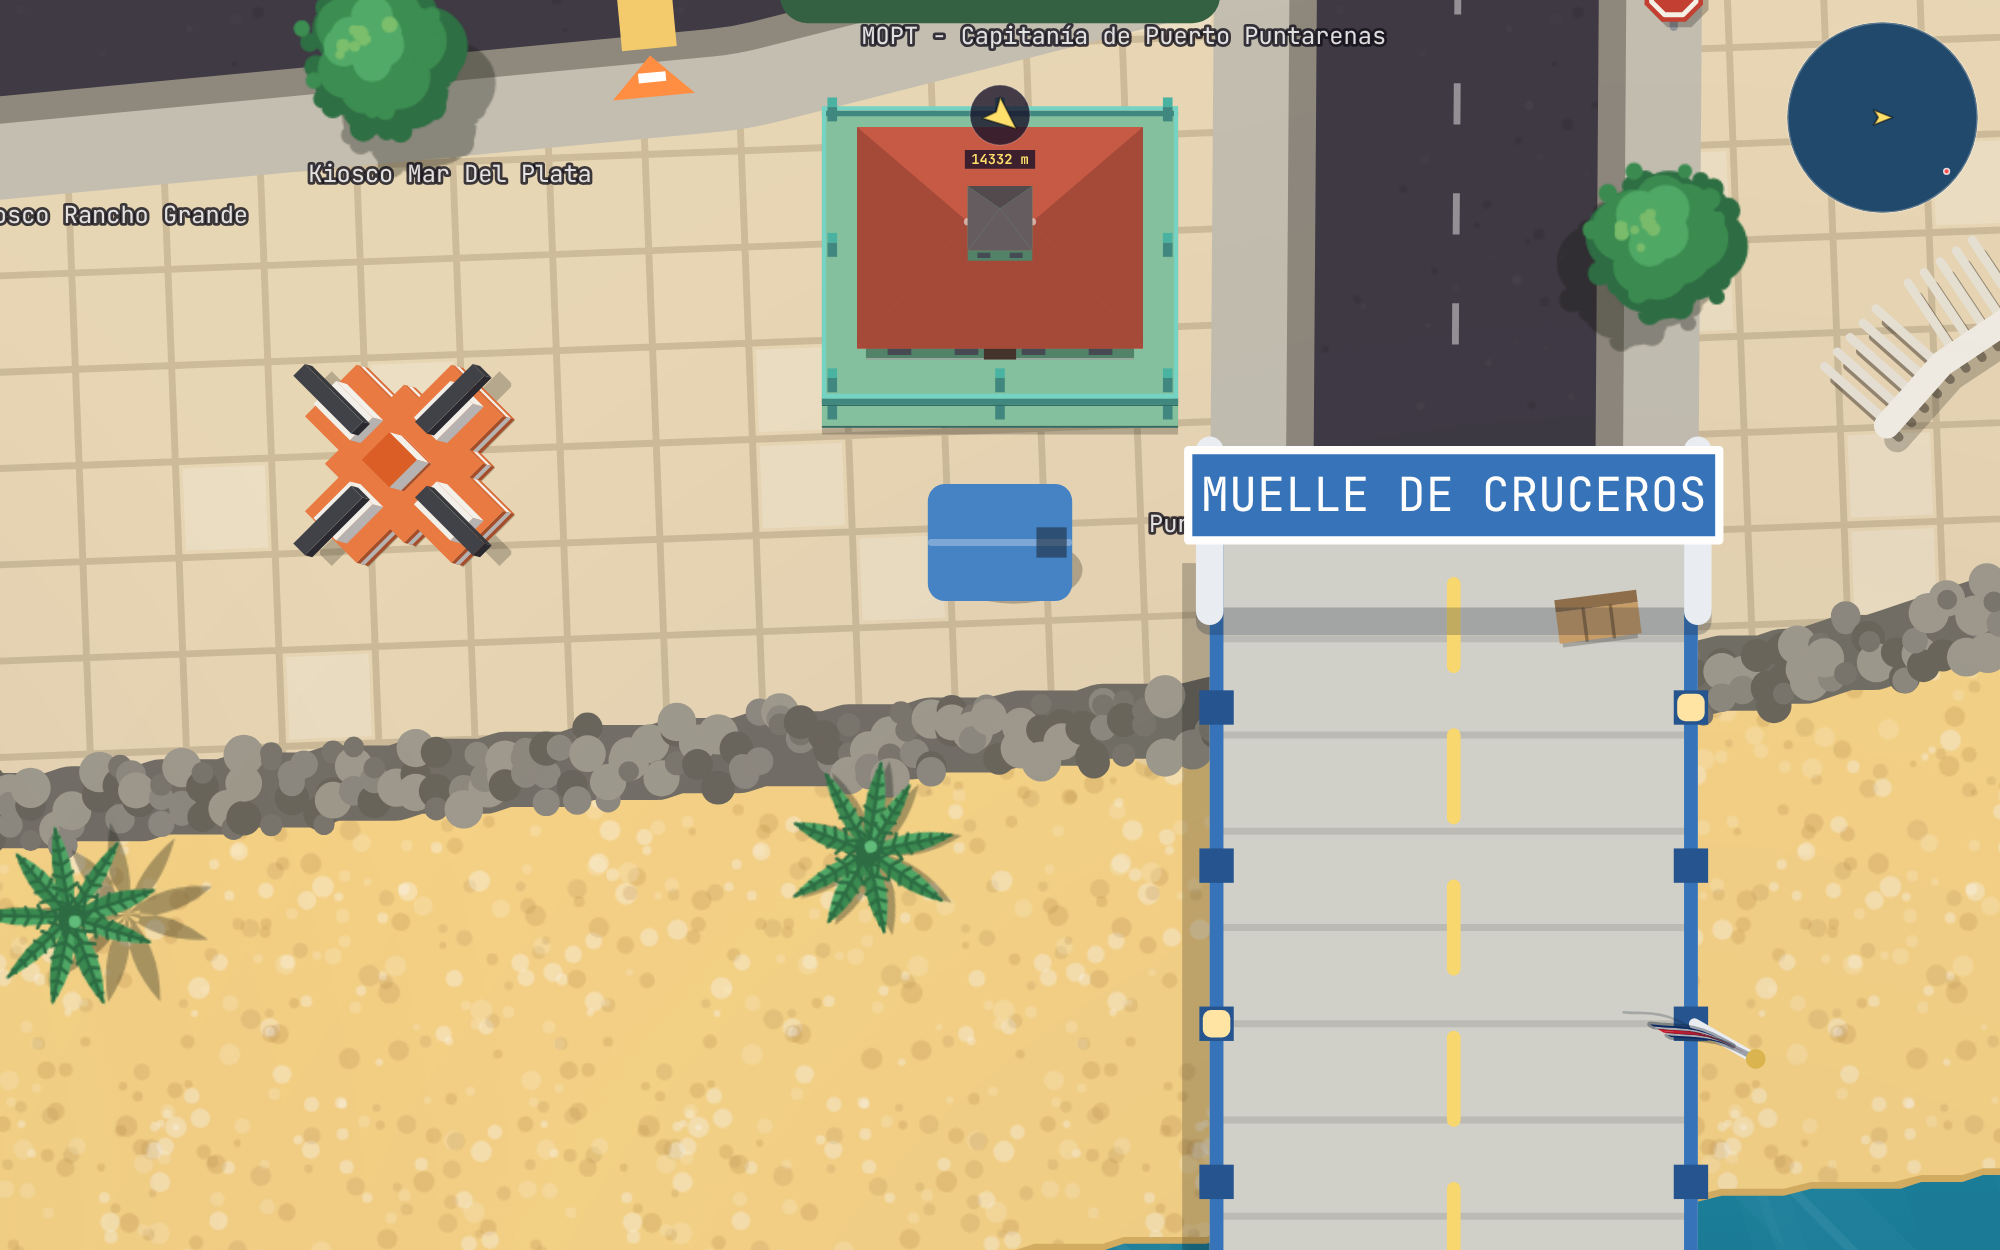
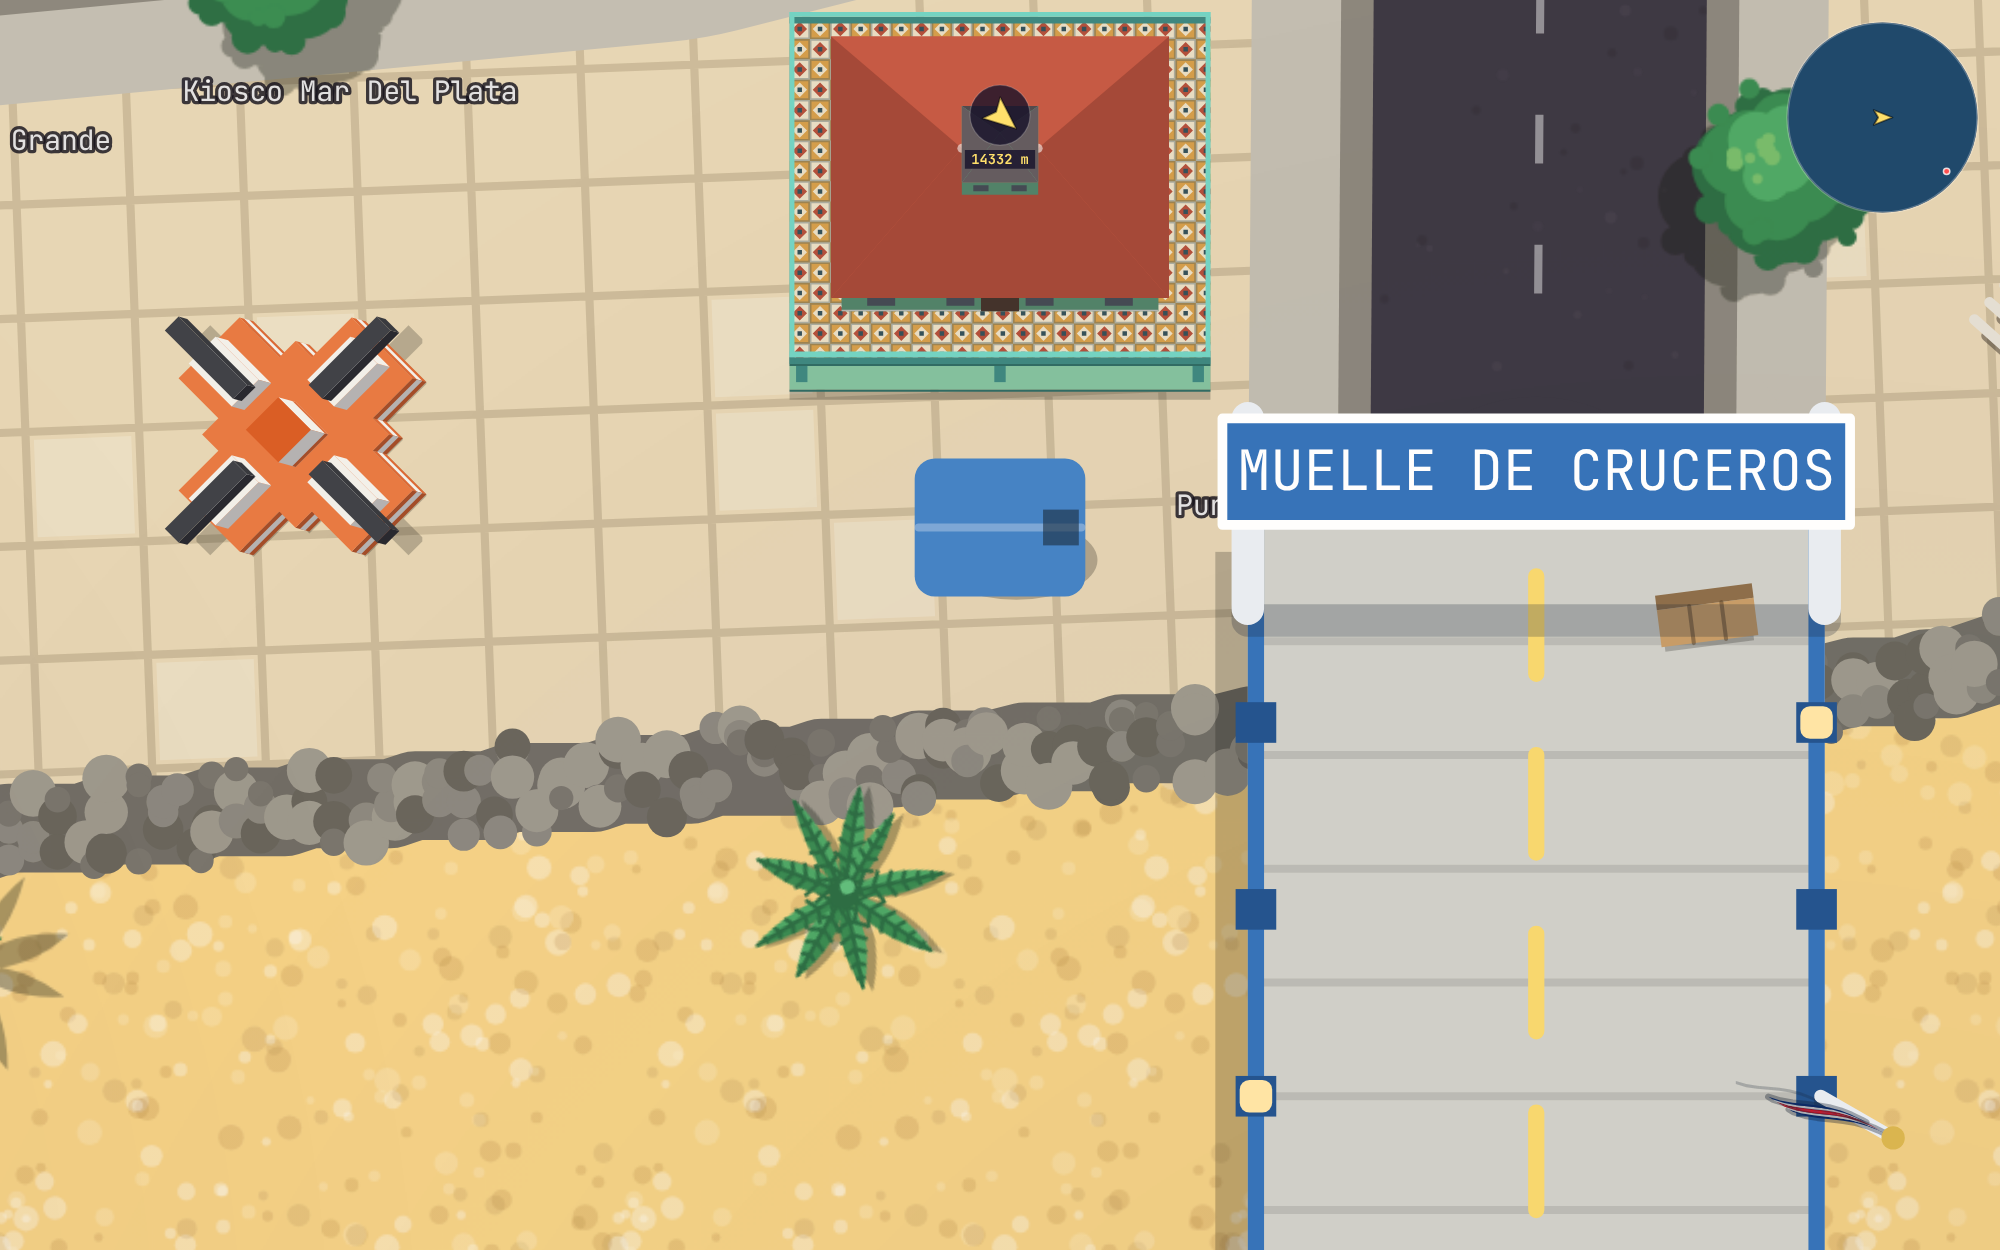
feat(render): las hojas de la Concha en 3D como en la foto; mosaico antiguo en el balcón de la Capitanía
- Las hojas son abanicos turquesa que nacen angostos sobre un pilar corto al
  borde del escenario y se abren hacia el mar y hacia arriba, cada una desde
  el centro (ya no se corren todas al mismo lado), más grandes, traslapadas y
  de tamaños distintos (las del centro mayores), con su ahuecado y sus nervios
  en abanico. Van en el aparejo con las gradas: su sombra es su silueta real.
- Capitanía: fuera las columnas sobre la baranda (el techo cubre sólo la casa
  y se leían como palos sueltos), y el piso del balcón es mosaico de cemento
  antiguo: un verbo nuevo de las tapas, `mosaic` (bodies.js → paintMosaic),
  con sus cuatro tintas en materials.json → centro.inks.

Claude-Session: https://claude.ai/code/session_018GSydgtbAbdgpJPFkJ2EAM

diff --git a/src/render/c2d/punta.js b/src/render/c2d/punta.js
@@ -294,32 +294,6 @@ function paintLettersRaised(mo, C, ppm) {
   ctx.restore();
 }
 
-// LAS HOJAS DE LA CONCHA, en el aire: cada pilar sube de su base a la hoja, y la hoja —turquesa,
-// translúcida— queda a `leafHeightM`, corrida con el pinhole como un techo.
-function paintShellLeaves(mo, C, K, R, leaves, ringR, L, Wd, leafPath, ppm) {
-  const lift = liftOf(mo, ppm), hi = lift(C.leafHeightM || 5), pil = R * 0.055;
-  ctx.save(); ctx.translate(mo.x, mo.y); ctx.rotate(mo.ang);
-  for (const a of leaves) {
-    const bx = Math.cos(a) * ringR, by = Math.sin(a) * ringR;
-    ctx.strokeStyle = C.pillarEdge; ctx.lineWidth = pil * 1.25; ctx.lineCap = "butt";
-    ctx.beginPath(); ctx.moveTo(bx, by); ctx.lineTo(bx + hi[0], by + hi[1]); ctx.stroke();
-    ctx.strokeStyle = C.pillar; ctx.lineWidth = pil;
-    ctx.beginPath(); ctx.moveTo(bx, by); ctx.lineTo(bx + hi[0], by + hi[1]); ctx.stroke();
-  }
-  for (const a of leaves) {
-    ctx.save(); ctx.translate(Math.cos(a) * ringR + hi[0], Math.sin(a) * ringR + hi[1]); ctx.rotate(a + Math.PI / 2);
-    const leaf = leafPath();
-    ctx.fillStyle = C.leaf; ctx.fill(leaf);
-    ctx.strokeStyle = C.leafEdge; ctx.lineWidth = Math.max(1, 0.15 * ppm); ctx.stroke(leaf);
-    ctx.strokeStyle = C.vein; ctx.lineWidth = Math.max(0.7, 0.08 * ppm); ctx.beginPath();
-    for (let v = 1; v <= 5; v++) { const y = L * (0.1 + v * 0.14), sp = Wd * (0.95 - v * 0.1); ctx.moveTo(0, y - L * 0.05); ctx.quadraticCurveTo(sp * 0.5, y, sp, y + L * 0.06); ctx.moveTo(0, y - L * 0.05); ctx.quadraticCurveTo(-sp * 0.5, y, -sp, y + L * 0.06); }
-    ctx.stroke();
-    ctx.strokeStyle = C.rib; ctx.lineWidth = Math.max(1, 0.22 * ppm); ctx.beginPath(); ctx.moveTo(0, 0); ctx.lineTo(0, L * 0.96); ctx.stroke();
-    ctx.restore();
-  }
-  ctx.restore();
-}
-
 // LAS GRADAS Y EL ESCENARIO DE LA CONCHA, en 3D sobre el aparejo (`rig3d.js`, metros, marco del
 // monumento: +v hacia el mar). Cada grada es un anillo un escalón más alto que el de adentro: su
 // CONTRAHUELLA (la pared que mira al escenario), su huella arriba y sus dos cantos en las puntas; atrás
@@ -357,6 +331,43 @@ function shellForm(Rg, Rm, C) {
     for (const f of [0.82, 0.66]) Rg.line(arc(sr * f, zs + 0.01, 0.08, Math.PI - 0.08, 0, cy), 0.28, C.stageStep);
     Rg.line([[-sr, cy, zs + 0.01], [sr, cy, zs + 0.01]], 0.28, C.stageStep);
   });
+  shellLeaves(Rg, Rm, C, cy);
+}
+
+// LAS HOJAS DE LA CONCHA, según la foto: abanicos turquesa translúcidos que nacen ANGOSTOS sobre un
+// pilar corto al borde del escenario y se abren hacia atrás y hacia arriba, hacia el mar, como la
+// concha acústica que son. Cada una apunta desde el centro (las bases no miran todas al mismo lado),
+// se traslapa con las vecinas, y no son iguales: las del centro, más grandes (`leafSizeK`). La
+// superficie se curva hacia arriba (`leafTopM`) y se ahueca de lado a lado (`leafCupM`); sus
+// nervios salen del pie como los de una concha. En 3D sobre el aparejo, sombra incluida.
+function shellLeaves(Rg, Rm, C, cy) {
+  const n = C.leaves, arc = C.leafArcDeg * RAD, [kSide, kMid] = C.leafSizeK;
+  const rb = Rm * C.leafFromK, zb = C.leafBaseM, H = C.leafTopM - zb, cup = C.leafCupM, tipK = 0.75;
+  const order = Array.from({ length: n }, (_, k) => k).sort((p, q) => Math.abs(p - (n - 1) / 2) < Math.abs(q - (n - 1) / 2) ? 1 : -1);
+  order.forEach((k, idx) => {
+    const a = Math.PI / 2 - arc / 2 + arc * k / (n - 1), off = Math.cos(a - Math.PI / 2), size = kSide + (kMid - kSide) * off * off;
+    const dx = Math.cos(a), dy = Math.sin(a), tx = -dy, ty = dx;
+    const L = Rm * C.leafLen * size, W = Rm * C.leafW * size, bx = dx * rb, by = cy + dy * rb;
+    const w = (q) => W * (q <= tipK ? Math.pow(Math.sin(Math.PI / 2 * q / tipK), 0.7) : Math.sqrt(Math.max(0, 1 - ((q - tipK) / (1 - tipK)) ** 2)));
+    const pt = (q, t) => {
+      const r = q * L, side = w(q) * t;
+      return [bx + dx * r + tx * side, by + dy * r + ty * side, zb + H * Math.sin(q * Math.PI * 0.6) / Math.sin(Math.PI * 0.6) - cup * t * t * q];
+    };
+    Rg.at(zb, () => Rg.box(bx, by, 0, zb, C.pillarM, C.pillarM, { top: C.pillar, side: C.pillar }, a));
+    Rg.at(C.leafTopM + 0.01 * idx, () => {
+      const N = 18, rim = [];
+      for (let i = 0; i <= N; i++) rim.push(pt(i / N, 1));
+      for (let i = N; i >= 0; i--) rim.push(pt(i / N, -1));
+      Rg.poly(rim, C.leaf, Rg.shadow ? null : C.leafEdge, 0.12);
+      if (Rg.shadow) return;
+      // los nervios: del pie al borde, en abanico
+      for (const f of [-1, -0.66, -0.33, 0.33, 0.66, 1]) {
+        const e = Math.abs(f), q1 = tipK + (1 - tipK) * Math.cos(e * Math.PI / 2), t1 = Math.sign(f) * Math.sin(e * Math.PI / 2) * 0.96;
+        Rg.line(Array.from({ length: 7 }, (_, i) => pt(0.04 + (q1 - 0.04) * i / 6, t1 * i / 6)), 0.07, C.vein);
+      }
+      Rg.line(Array.from({ length: 7 }, (_, i) => pt(0.02 + 0.96 * i / 6, 0)), 0.16, C.rib);
+    });
+  });
 }
 
 function paintMonument(mo, ppm) {
@@ -373,34 +384,20 @@ function paintMonument(mo, ppm) {
   }
   if (mo.kind === "shell") {
     // local: +y hacia el mar (la calle detrás de las gradas), el radio total es R
-    const R = mo.size || C.rM * ppm, lift = liftOf(mo, ppm);
+    const R = mo.size || C.rM * ppm;
     // el piso gris que llena el círculo entero de la Concha, gradas y hojas incluidas
     ctx.beginPath(); ctx.arc(0, 0, R * 1.04, 0, Math.PI * 2); ctx.fillStyle = C.floor; ctx.fill(); ctx.strokeStyle = C.floorEdge; ctx.lineWidth = 1.5; ctx.stroke();
     // la plaza de adoquín con su aro amarillo (en el suelo; las gradas y el escenario se levantan en 3D)
     const t0 = R * 0.62;
     ctx.beginPath(); ctx.arc(0, 0, t0, 0, Math.PI * 2); ctx.fillStyle = C.plaza; ctx.fill();
     ctx.beginPath(); ctx.arc(0, 0, t0 * 0.9, Math.PI * 1.05, Math.PI * 1.95); ctx.strokeStyle = C.ring; ctx.lineWidth = Math.max(1, 0.25 * ppm); ctx.stroke();
-    // las hojas: su sombra va acá, en el piso; las hojas y sus pilares se LEVANTAN y van con los cuerpos
-    const n = C.leaves, arc = C.leafArcDeg * RAD, ringR = R * 0.93, L = R * C.leafLen, Wd = R * C.leafW;
-    const leaves = [];
-    for (let k = 0; k < n; k++) leaves.push(Math.PI / 2 - arc / 2 + arc * k / (n - 1));
-    leaves.sort((a, b) => Math.abs(b - Math.PI / 2) - Math.abs(a - Math.PI / 2));   // las del centro encima
-    const leafPath = () => { const p = new Path2D(); p.moveTo(0, 0); p.bezierCurveTo(Wd, L * 0.16, Wd * 1.05, L * 0.64, 0, L); p.bezierCurveTo(-Wd * 1.05, L * 0.64, -Wd, L * 0.16, 0, 0); return p; };
-    const lsh = sunShadow(C.leafHeightM || 5);
-    { const mag = Math.hypot(lsh.dx, lsh.dy) || 1, min = (C.leafShadowMinM || 1.4) * ppm; if (mag < min) { lsh.dx = (lsh.dx || 0.6) / mag * min; lsh.dy = (lsh.dy || 0.8) / mag * min; } }
-    const ca = Math.cos(-(mo.ang || 0)), sa = Math.sin(-(mo.ang || 0)), sdx = lsh.dx * ca - lsh.dy * sa, sdy = lsh.dx * sa + lsh.dy * ca;
-    for (const a of leaves) {
-      ctx.save(); ctx.translate(Math.cos(a) * ringR + sdx, Math.sin(a) * ringR + sdy); ctx.rotate(a + Math.PI / 2);
-      ctx.globalAlpha = Math.min(1, Math.max(C.leafShadowAlpha || 0.55, lsh.alpha * 1.4)); ctx.fillStyle = K.shadow; ctx.fill(leafPath());
-      ctx.restore();
-    }
     ctx.restore();
-    // LAS GRADAS Y EL ESCENARIO EN 3D (`shellForm`): su sombra de una vez, en el suelo; ellos, con los cuerpos
-    const Rm = R / ppm, topM = C.tierRiseM * C.tiers + 0.5;
+    // LAS GRADAS, EL ESCENARIO Y LAS HOJAS EN 3D (`shellForm`): su sombra de una vez, en el suelo; ellos, con los cuerpos
+    const Rm = R / ppm, topM = Math.max(C.tierRiseM * C.tiers, C.leafTopM) + 0.5;
     const rig = (g, mode) => { const S = makeRig(g, mo.x, mo.y, mo.ang || 0, ppm, state.cam, mode, C.shade, topM); shellForm(S, Rm, C); S.flush(); };
     const sun = sunShadow(1);
     if (sun.alpha > 0) withShadowLayer(ctx, mo.x, mo.y, R * 1.3, sun.alpha * C.shadowAlpha, (g) => rig(g, "sun"));
-    queueBodyLike({ x: mo.x, y: mo.y, paint: (pp) => { rig(ctx, "cam"); paintShellLeaves(mo, C, K, R, leaves, ringR, L, Wd, leafPath, pp); } });
+    queueBodyLike({ x: mo.x, y: mo.y, paint: () => rig(ctx, "cam") });
     return;
   }
   if (mo.kind === "letters") {

diff --git a/src/render/c2d/bodies.js b/src/render/c2d/bodies.js
@@ -76,6 +76,42 @@ function paintDecal(T, i, lo, hi, lit) {
   ctx.restore();
 }
 
+// EL MOSAICO ANTIGUO sobre una tapa: losetas de cemento de `everyM` alineadas con la PRIMERA arista
+// de la huella (la del marco del lugar), cada una con su fondo, su rombo y su centro, y un cuadro sí
+// y otro no con las tintas cambiadas — el piso de las iglesias viejas. `inks`: [fondo, rombo,
+// centro, fondo alterno]. Se pinta en tres trazos por tinta, no por loseta.
+function paintMosaic(T, cap, o, ppm) {
+  const { everyM, inks } = T.mosaic, pts = T.pts, n = pts.length, s = everyM * ppm;
+  if (!(s > 1.2)) return;
+  let ex = pts[2] - pts[0], ey = pts[3] - pts[1];
+  const el = Math.hypot(ex, ey) || 1; ex /= el; ey /= el;
+  const nx = -ey, ny = ex, ox = pts[0] + o[0], oy = pts[1] + o[1];
+  let u0 = Infinity, u1 = -Infinity, v0 = Infinity, v1 = -Infinity;
+  for (let i = 0; i < n; i += 2) {
+    const dx = pts[i] + o[0] - ox, dy = pts[i + 1] + o[1] - oy, u = dx * ex + dy * ey, v = dx * nx + dy * ny;
+    u0 = Math.min(u0, u); u1 = Math.max(u1, u); v0 = Math.min(v0, v); v1 = Math.max(v1, v);
+  }
+  const P = (u, v) => [ox + ex * u + nx * v, oy + ey * u + ny * v];
+  const quad = (path, pp) => { path.moveTo(pp[0][0], pp[0][1]); for (let k = 1; k < 4; k++) path.lineTo(pp[k][0], pp[k][1]); path.closePath(); };
+  const alt = new Path2D(), rhomb = [new Path2D(), new Path2D()], dot = new Path2D(), grout = new Path2D();
+  for (let i = Math.floor(u0 / s); i * s < u1; i++) for (let j = Math.floor(v0 / s); j * s < v1; j++) {
+    const a = i * s, b = j * s, c = (i + j) & 1, m = s / 2;
+    if (c) quad(alt, [P(a, b), P(a + s, b), P(a + s, b + s), P(a, b + s)]);
+    const r = s * 0.36;
+    quad(rhomb[c], [P(a + m, b + m - r), P(a + m + r, b + m), P(a + m, b + m + r), P(a + m - r, b + m)]);
+    const q = s * 0.11;
+    quad(dot, [P(a + m - q, b + m - q), P(a + m + q, b + m - q), P(a + m + q, b + m + q), P(a + m - q, b + m + q)]);
+    grout.moveTo(...P(a, b)); grout.lineTo(...P(a + s, b)); grout.moveTo(...P(a, b)); grout.lineTo(...P(a, b + s));
+  }
+  ctx.save(); ctx.clip(cap);
+  ctx.fillStyle = ink(inks[3] || inks[0]); ctx.fill(alt);
+  ctx.fillStyle = ink(inks[1]); ctx.fill(rhomb[0]);
+  ctx.fillStyle = ink(inks[0]); ctx.fill(rhomb[1]);
+  ctx.fillStyle = ink(inks[2]); ctx.fill(dot);
+  ctx.strokeStyle = ink(inks[2]); ctx.globalAlpha = 0.35; ctx.lineWidth = Math.max(0.4, s * 0.05); ctx.stroke(grout);
+  ctx.restore();
+}
+
 function paintTier(T, at, vis, sunlit, sun, ppm) {
   const h = T.z1 - T.z0, o0 = at(T.z0), o1 = at(T.z1), pts = T.pts, n = pts.length;
   const zAt = (f) => at(T.z0 + h * f);
@@ -132,6 +168,7 @@ function paintTier(T, at, vis, sunlit, sun, ppm) {
     }
     ctx.restore();
   }
+  if (T.mosaic) paintMosaic(T, cap, o1, ppm);
   if (T.edge) { ctx.strokeStyle = ink(T.edge); ctx.lineWidth = 1; ctx.stroke(cap); }
   if (T.parapet) {
     // las almenas: el pretil, con sus dientes

diff --git a/src/render/c2d/bodyGeometry.js b/src/render/c2d/bodyGeometry.js
@@ -114,7 +114,7 @@ export function buildBody(spec, base, rot, F) {
     const uv = footprint(t, base, rot), o = { pts: flat(uv), z0: t.z[0], z1: t.z[1], wall: t.wall, cap: t.cap };
     const flip = area2(o.pts) < 0;
     if (flip) o.pts = wound(o.pts);
-    for (const k of ["edge", "bands", "windows", "parapet", "stains"]) if (t[k]) o[k] = t[k];
+    for (const k of ["edge", "bands", "windows", "parapet", "stains", "mosaic"]) if (t[k]) o[k] = t[k];
     if (t.decal) {
       // el estampado: en qué paredes va (índices de vértice, como `openings.edge`), re-numeradas si el giro se invirtió
       const n = o.pts.length / 2;

diff --git a/tests/test_centro.py b/tests/test_centro.py
@@ -54,6 +54,8 @@ def inks_of(tier):
         yield op["ink"]
     if tier.get("windows"):
         yield tier["windows"]["ink"]
+    # el mosaico de una tapa (`bodies.js → paintMosaic`): sus cuatro tintas también son de la casa
+    yield from (tier.get("mosaic") or {}).get("inks", [])
     if tier.get("truss"):
         yield tier["truss"]["ink"]
     roof = tier.get("roof") or {}
